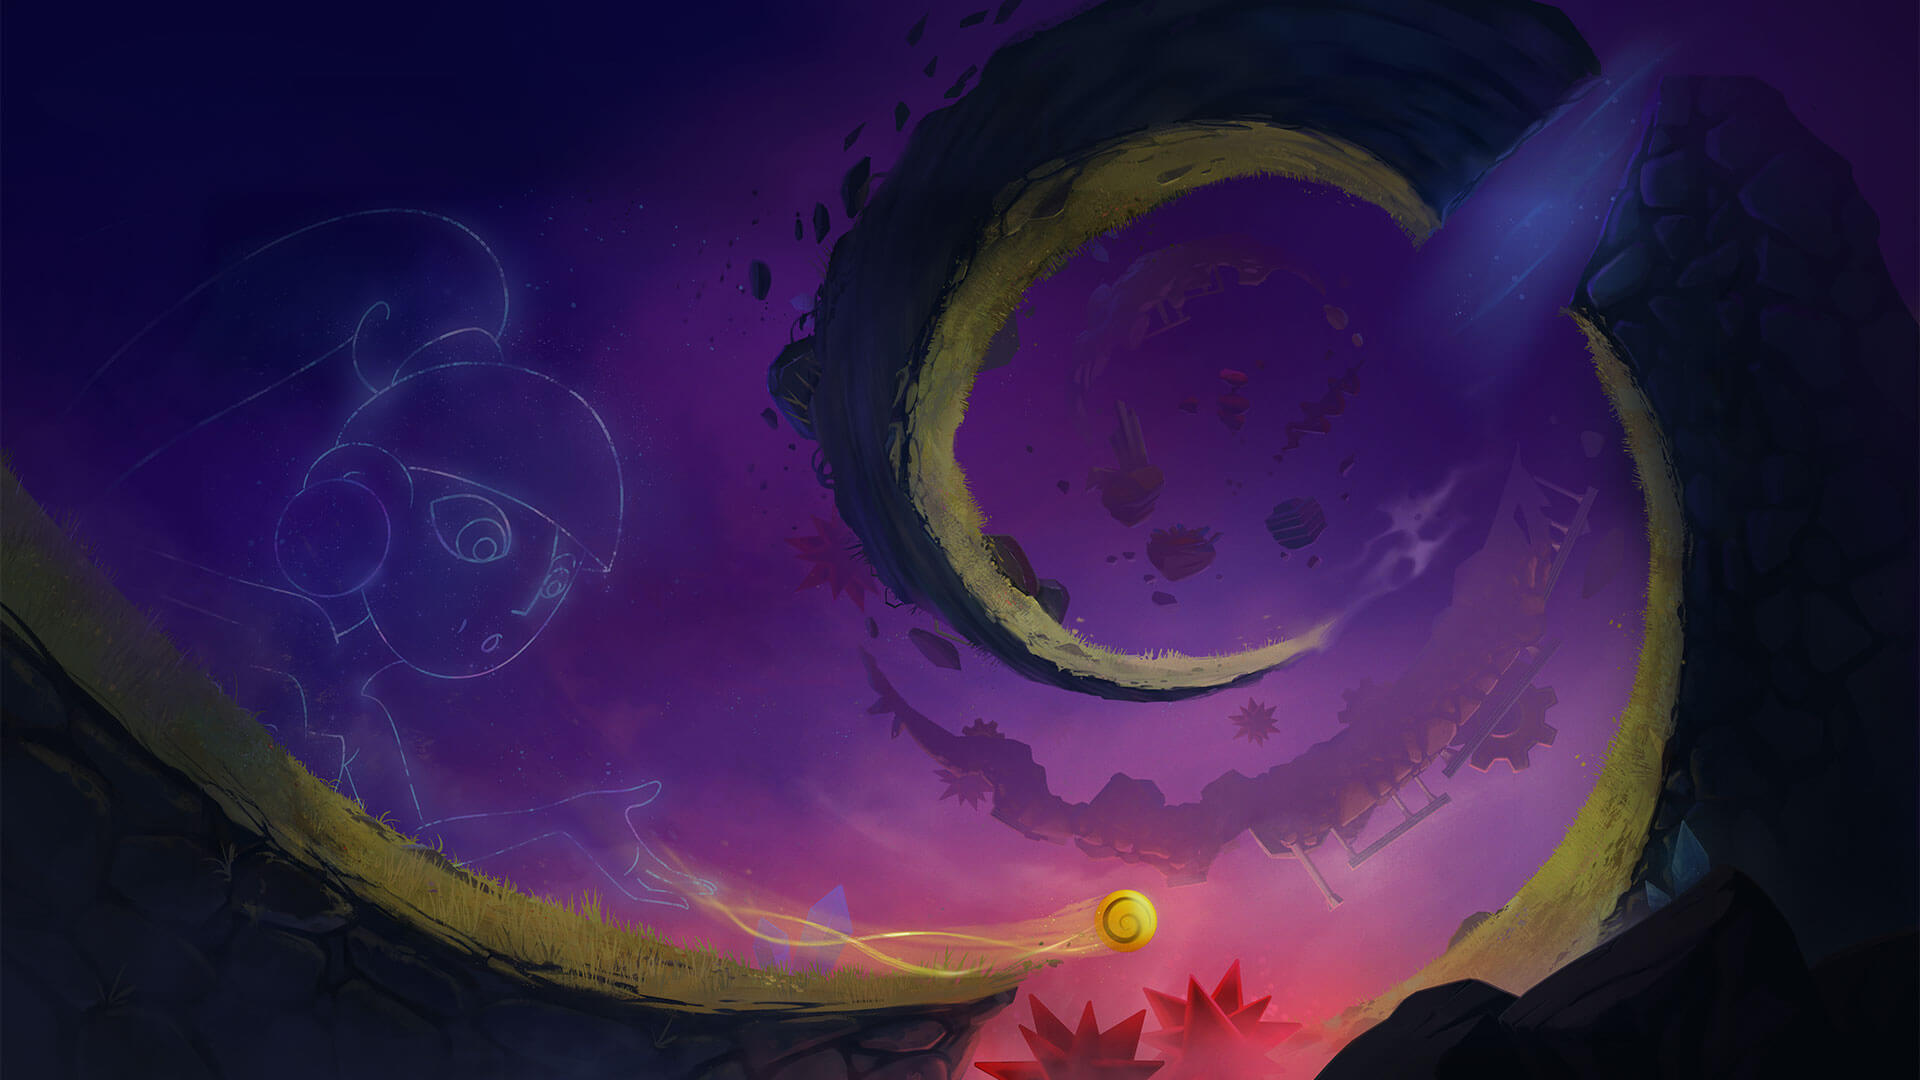
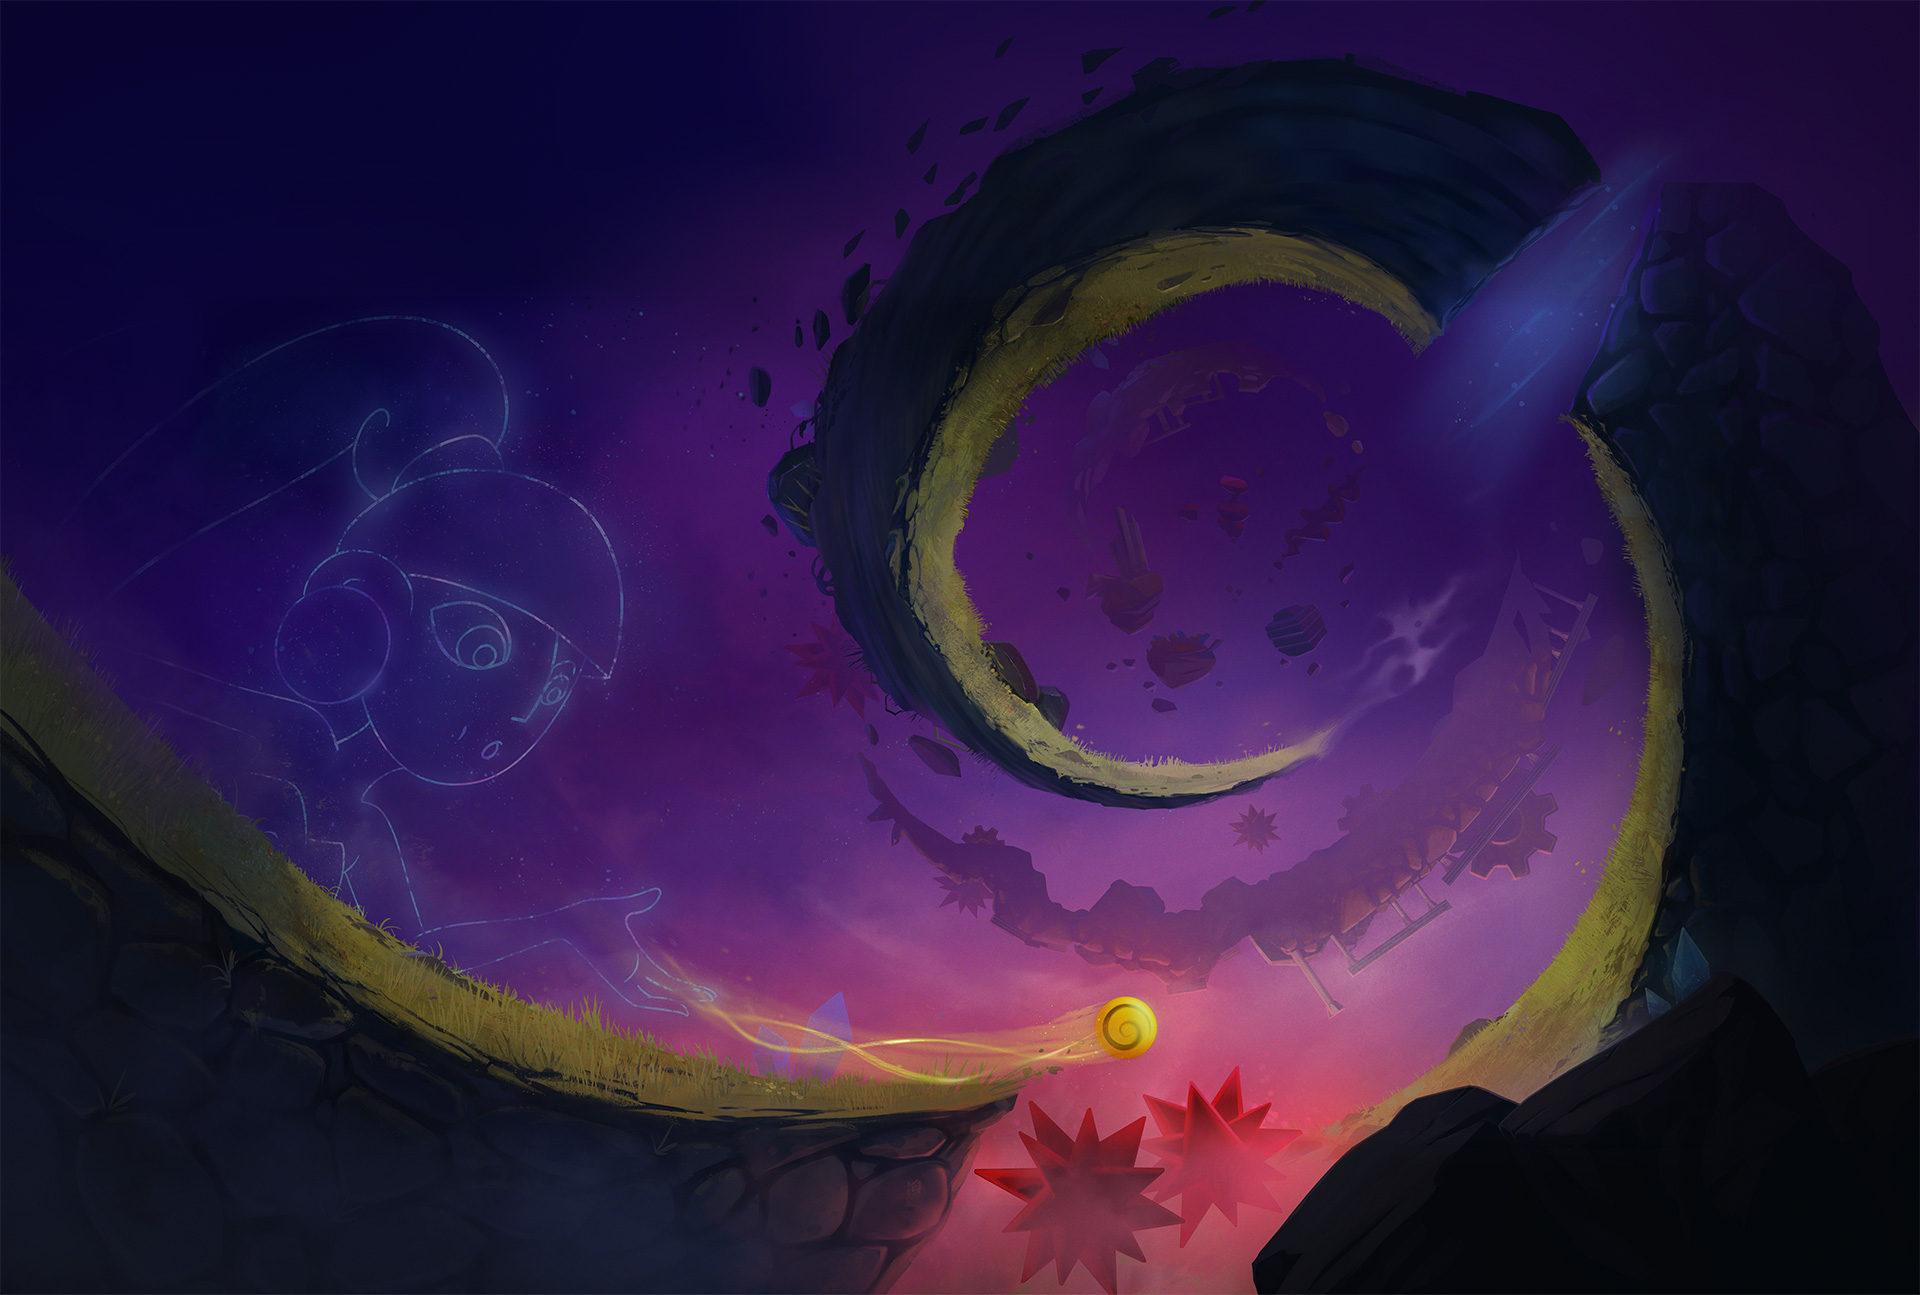
Restructure index.html to new layout

diff --git a/index.html b/index.html
@@ -20,84 +20,100 @@
     <title>Amberial</title>
     <!-- ... -->
 </head>
-<body class="bg-black text-white kano">
+<body class="bg-black text-lg text-white kano">
 
     <header class="w-full">
-        <div class="fixed w-full" style="background-image: url('img/separator_bottom.png'); height: 242px"></div>
-        <div class="fixed flex items-center px-8 py-4 bg-black">
-            <a href=""><img class="h-9" src="./img/Avatar.png"></a>
+        <div class="fixed w-full opacity-[.80]" style="background-image: url('img/separator_bottom.png'); height: 242px"></div>
+        <div class="fixed flex items-center px-8 py-4">
+            <a class="w-9" href=""><img class="h-9" src="./img/Avatar.png"></a>
             <nav class="mx-4">
                 <ul class="flex text-xl cinzel-bold">
-                    <li class="px-3"><a href="#">HOME</a></li>
-                    <li class="px-3"><a href="#">TRAILER</a></li>
-                    <li class="px-3"><a href="#">COMMUNITY</a></li>
-                    <li class="px-3"><a href="#">BUY</a></li>
-                    <li class="px-3"><a href="#">CONTACT</a></li>
+                    <li class="px-3 hover:text-[#FFC700] hover:scale-110"><a href="#">HOME</a></li>
+                    <li class="px-3 hover:text-[#FFC700] hover:scale-110"><a href="#">TRAILER</a></li>
+                    <li class="px-3 hover:text-[#FFC700] hover:scale-110"><a href="#">COMMUNITY</a></li>
+                    <li class="px-3 hover:text-[#FFC700] hover:scale-110"><a href="#">BUY</a></li>
+                    <li class="px-3 hover:text-[#FFC700] hover:scale-110"><a href="#">CONTACT</a></li>
                 </ul>
             </nav>
         </div>
     </header>
 
-    <section class="pt-48 pb-16 px-32 center" style="background-image: url('./img/AMB_KeyArt.jpg');">
-        <div class="w-full flex items-center justify-center mb-24">
-            <a class="w-96 sm:w-2/5" href="https://store.steampowered.com/app/917140/Amberial_Dreams/"><img src="img/logos/amberial.png" /></a>
+    <section class="pt-48 pb-16 px-8 md:px-32 bg-cover bg-center" style="background-image: url('./img/AMB_KeyArt.jpg');">
+        <div class="w-full flex flex-col justify-center items-center mb-24">
+            <a class="lg:w-[450px] w-4/5" href="https://store.steampowered.com/app/917140/Amberial_Dreams/"><img src="img/logos/amberial.png" /></a>
+            <p class="my-8 md:text-5xl text-3xl text-center cinzel-bold text-shadow amberial-yellow">Now in Early Access</p>
+            <iframe class="w-full lg:w-1/2" src="https://store.steampowered.com/widget/917140/" frameborder="0" width="646" height="190"></iframe>
         </div>
     </section>
     
-    <section class="px-32 py-16" style="background-image: url('./img/background-alternate.jpg');">
-        <h1 class="my-8 cinzel-bold text-center text-6xl">The Hit Series Returns</h1>
-        <div class="w-full flex justify-center items-center">
-            
-            <div class="bg-black bg-opacity-60 py-14 px-14 w-4/5 rounded-xl space-y-8 flex flex-col lg:flex-row lg:space-x-16">
-                <div class="flex-1">
-                        <iframe class="w-full rounded-xl h-96 lg:h-full"  src="https://www.youtube.com/embed/UG1VCM3GUYc" title="YouTube video player" frameborder="0" allow="accelerometer; autoplay; clipboard-write; encrypted-media; gyroscope; picture-in-picture" allowfullscreen></iframe>
-                </div>
-                <div class="space-y-5 text-lg flex-1">
-                    <p>The hit series returns! Roll, bounce, and discover a new galaxy in an open-ended platformer for all skill levels, from relaxed to pure madness. Make your own levels in a rich editor, share them, and play with friends!</p>
+    <section class="px-8 md:px-32 py-16 bg-cover bg-center flex flex-col items-center" style="background-image: url('./img/background-alternate.jpg');">
+        <h1 class="m-0 cinzel-bold text-6xl text-center text-shadow">The Hit Series Returns</h1>
+        <div class="my-8 w-full lg:w-4/5 rounded-xl space-y-8 flex flex-col lg:flex-row lg:space-x-16">
+            <div class="flex-1">
+                    <iframe class="w-full rounded-xl h-96 lg:h-full"  src="https://www.youtube.com/embed/UG1VCM3GUYc" title="YouTube video player" frameborder="0" allow="accelerometer; autoplay; clipboard-write; encrypted-media; gyroscope; picture-in-picture" allowfullscreen></iframe>
+            </div>
+            <div class="my-8 flex-1">
+                <p>The hit series returns! Roll, bounce, and discover a new galaxy in an open-ended platformer for all skill levels, from relaxed to pure madness. Make your own levels in a rich editor, share them, and play with friends!</p>
 
-                    <p>In the long gone days of 2007, Amberial landed on the indie Flash gaming scene, and over the course of 4 games accumulated over 2 million players.
-                        15 years later, Amberial Dreams brings the series back with a bang, boasting a brand-new engine, more contraptions than ever before,
-                        but the same basic premise: only two buttons to move, no jumping allowed.</p>
-                    
-                    <iframe class="w-full" src="https://store.steampowered.com/widget/917140/" frameborder="0" width="646" height="190"></iframe>
-                </div>
+                <p>In the long gone days of 2007, Amberial landed on the indie Flash gaming scene, and over the course of 4 games accumulated over 2 million players.
+                    15 years later, Amberial Dreams brings the series back with a bang, boasting a brand-new engine, more contraptions than ever before,
+                    but the same basic premise: only two buttons to move, no jumping allowed.</p>
             </div>
         </div>
     </section>
 
-    <section class="flex flex-col">
-        <div class="mx-auto flex" id="fetch-top"></div>
-        <div class="mx-auto flex" id="fetch-bottom"></div>
-        <div class="flex justify-center">
-            <button class="w-24 my-3 mx-3 p-3 rounded-sm bg-white text-black" type="button" id="previous-page">previous</button>
-            <button class="w-24 my-3 p-3 rounded-sm bg-white text-black" type="button" id="next-page">next</button>
-        </div>
-    </section>
-
-    <section class="flex">
-        <div class=" flex flex-col mx-auto">
-            <a class="twitter-timeline" data-width="500" data-height="500" data-theme="dark" href="https://twitter.com/amberialdreams?ref_src=twsrc%5Etfw">Tweets by amberialdreams</a> <script async src="https://platform.twitter.com/widgets.js" charset="utf-8"></script>
-
-            <button id ="twitter-follow" type="button" class="mx-auto my-3">
-                <a href="https://twitter.com/amberialdreams?ref_src=twsrc%5Etfw" class="background">
-                    <div class="animatedbg"></div>
-                    <span>
-                        <i class="text-2xl fa-brands fa-twitter"></i>
-                    </span>
-                    <span>Follow @amberialdreams</span>
-                    <div class="wrapper">
-                        <i class="text-lg arrow fa-solid fa-circle-arrow-right"></i>
+    <section class="px-8 md:px-32 py-16 bg-cover bg-center" style="background-image: url('./img/mid-background.jpg');">
+        <h1 class="m-0 cinzel-bold text-6xl text-center text-shadow">Our Community</h1>
+        <div class="flex flex-col lg:flex-row justify-center">
+            <div>
+                <p class="my-8">Blurb about how great the community of the game is. Amberial Dreams has a great playerbase and everyone's having a great time! Did you know there's a Discord server? Maybe we should put that link somewhere.</p>
+                <div class="w-full lg:w-4/5 flex flex-col items-center my-8">
+                    <div class="h-full w-full bg-black opacity-75 p-4">
+                        <h2 class="my-4 text-4xl text-center cinzel-deco amberial-yellow">Featured Levels</h2>
+                        <div class="mx-auto flex" id="fetch-top"></div>
+                        <div class="mx-auto flex" id="fetch-bottom"></div>
                     </div>
-                </a>
-            </button>
+                    <div class="flex justify-center my-8">
+                        <button class="w-32 my-3 mx-3 p-3 rounded-sm bg-white text-black" type="button" id="previous-page">PREVIOUS</button>
+                        <button class="w-32 my-3 p-4 rounded-sm bg-white text-black" type="button" id="next-page">NEXT</button>
+                    </div>
+                </div>
+            </div>
+            <div class="flex flex-col mx-auto">
+                <a class="twitter-timeline my-8" data-width="500" data-height="100%" data-theme="dark" href="https://twitter.com/amberialdreams?ref_src=twsrc%5Etfw">Tweets by amberialdreams</a> <script async src="https://platform.twitter.com/widgets.js" charset="utf-8"></script>
+                <button id ="twitter-follow" type="button" class="mx-auto my-8">
+                    <a href="https://twitter.com/amberialdreams?ref_src=twsrc%5Etfw" class="background">
+                        <div class="animatedbg"></div>
+                        <span>
+                            <i class="text-2xl fa-brands fa-twitter"></i>
+                        </span>
+                        <span>Follow @amberialdreams</span>
+                        <div class="wrapper">
+                            <i class="text-lg arrow fa-solid fa-circle-arrow-right"></i>
+                        </div>
+                    </a>
+                </button>
+            </div>
         </div>
     </section>
 
-    <section class="h-32 w-full text-center mt-4 text-2xl mb-32">
-        <div class="w-full" style="background-image: url('img/separator_top.png'); height: 242px"></div>
-        <p class="mt-6">Amberial Dreams is a project of <a target="_blank" href="https://www.lumorama.com"><img class="h-24 inline" src="img/lumorama_logo_transparent.png"></a></p>
-        <div class="my-2"> contact us at team@lumorama.com</div>
+    <section class="px-8 md:px-32 pt-16 pb-48 bg-cover bg-center flex flex-col items-center relative" style="background-image: url('./img/background-alternate.jpg');">
+        <h1 class="my-8 cinzel-bold text-6xl text-center text-shadow">Join Us</h1>
+        <p>Are you interested in [in-game activity here]?</p>
+        <p>Fortunately, Amberial Dreams is available NOW on Steam!</p>
+        <p>Join hundreds (?) of other [Amberial player fan-name here]s today!</p>
+        <iframe class="w-full lg:w-1/2 mt-8" src="https://store.steampowered.com/widget/917140/" frameborder="0" width="646" height="190"></iframe>
+        <div class="absolute w-full opacity-[.80] bottom-0" style="background-image: url('img/separator_top.png'); height: 242px"></div>
     </section>
+
+    <footer class="text-2xl text-center cinzel-bold pb-16 flex flex-col items-center bg-[#040109]">
+        <p>Amberial Dreams is a project of</p>
+        <a target="_blank" href="https://www.lumorama.com"><img class="h-24" src="img/lumorama_logo_transparent.png"></a>
+        <p>published by</p>
+        <a class="my-4" target="_blank" href="https://www.lumorama.com"><img class="h-24" src="img/twinsails-logo.png"></a>
+        <p class="kano my-8">Contact us at team@lumorama.com</p>
+        <p class="text-sm my-8">&#169; LUMORAMA 2022</p>
+    </footer>
 </body>
 
 </html>

diff --git a/style.css b/style.css
@@ -36,11 +36,15 @@
     font-family: 'cinzel_decorativeregular', serif;
 }
 
-/* Reset styles */
+/* Extra text styles */
 
-header ul {
-    list-style: none;
-} 
+.text-shadow {
+    text-shadow: 0px 3px 4px rgba(0,0,0,1);
+}
+
+.amberial-yellow {
+    color: rgb(255, 199, 0);
+}
 
 /* Custom classes for the animated Twitter button */
 .fill {
@@ -127,7 +131,7 @@ header ul {
 
 #twitter-follow:hover .arrow {
     animation: 0.7s linear infinite spin;
-    color: rgb(249,221,2);
+    color: rgb(255, 199, 0);
 }
 
 @keyframes hover-scene {

diff --git a/tailwind.config.js b/tailwind.config.js
@@ -7,10 +7,6 @@ module.exports = {
       },
       keyframes: {
       },
-      backgroundImage: {
-        'heroimage': "url('./img/AMB_KeyArt.jpg')",
-        'background-one': "url('./img/background.jpg')",
-      }
     },
   },
   plugins: [],
